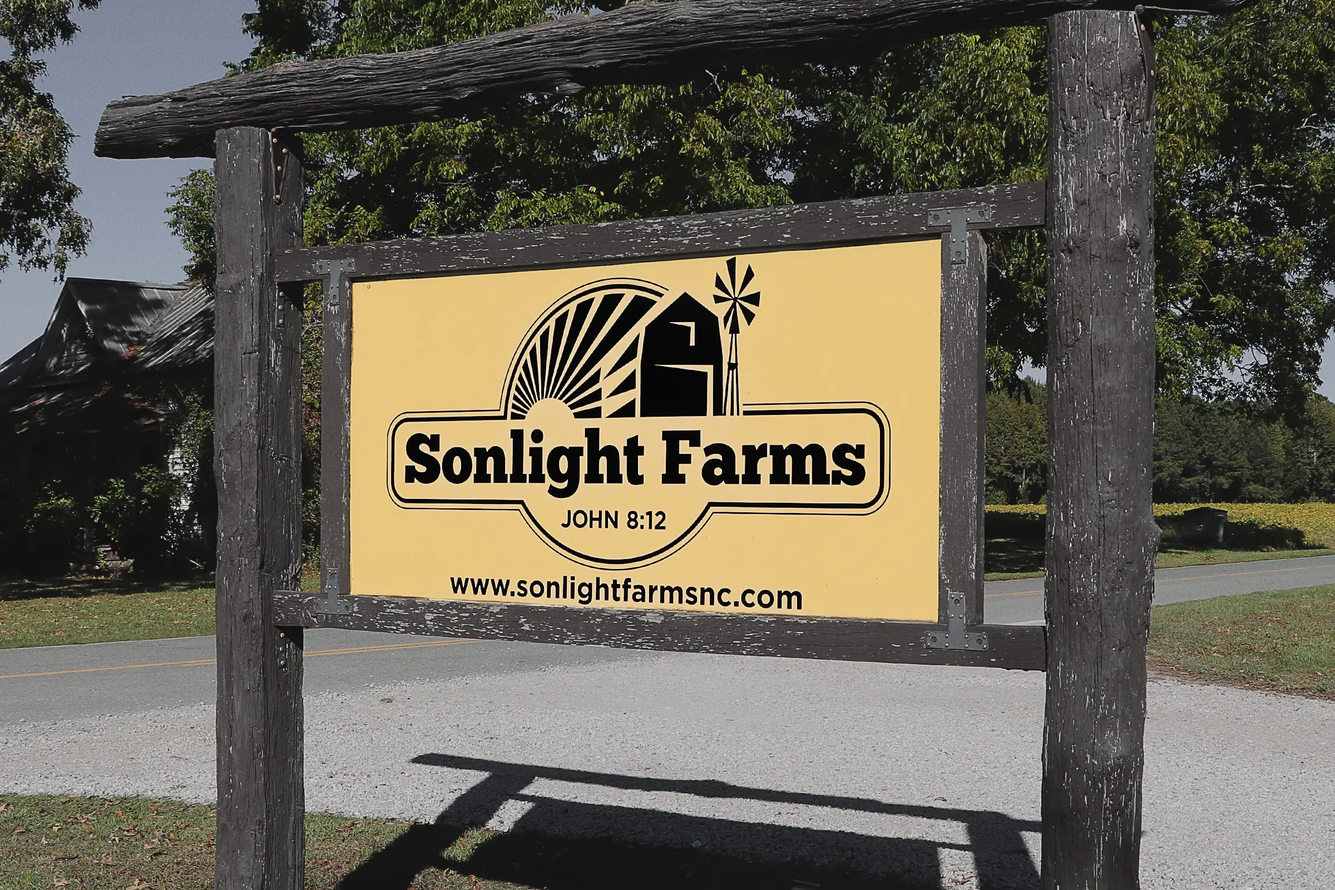
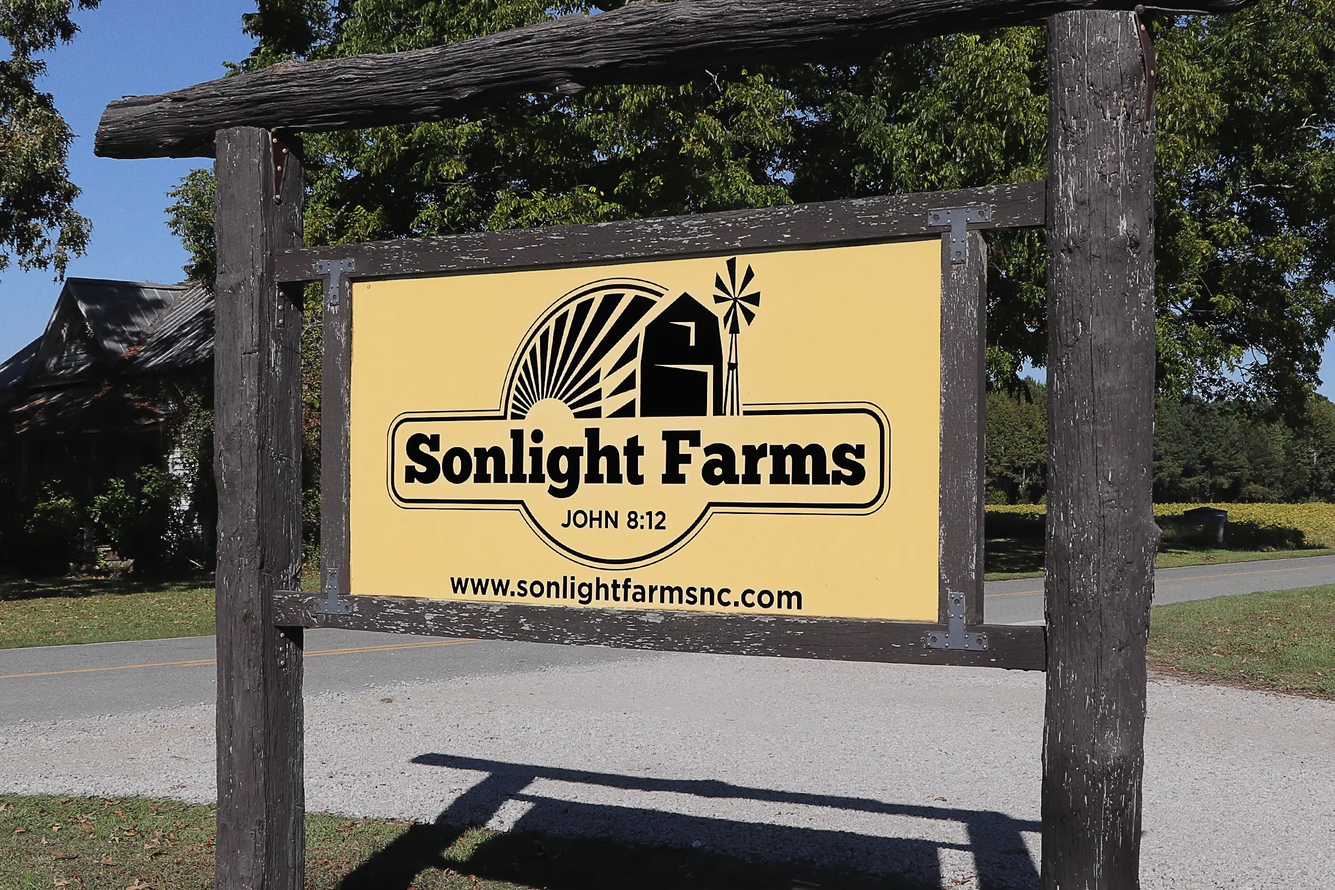
sonlight images

diff --git a/portfolio/sonlight-farms.html b/portfolio/sonlight-farms.html
@@ -224,8 +224,8 @@
             
     <img class="gallery-img wide" src="../images/portfolioSonlightFarms02.webp">
     <img class="gallery-img tall" src="../images/portfolioSonlightFarms03.jpg"><img class="gallery-img tall" src="../images/portfolioSonlightFarms04.webp">
-    <img class="gallery-img wide" src="../images/portfolioSonlightFarms05.jpg">
-    <img class="gallery-img tall" src="../images/portfolioSonlightFarms06.webp"><img class="gallery-img tall" src="../images/portfolioSonlightFarms07.jpg">
+    <img class="gallery-img wide" src="../images/portfolioSonlightFarms05.webp">
+    <img class="gallery-img tall" src="../images/portfolioSonlightFarms06.webp"><img class="gallery-img tall" src="../images/portfolioSonlightFarms07.webp">
         </div>
     </div>
 
